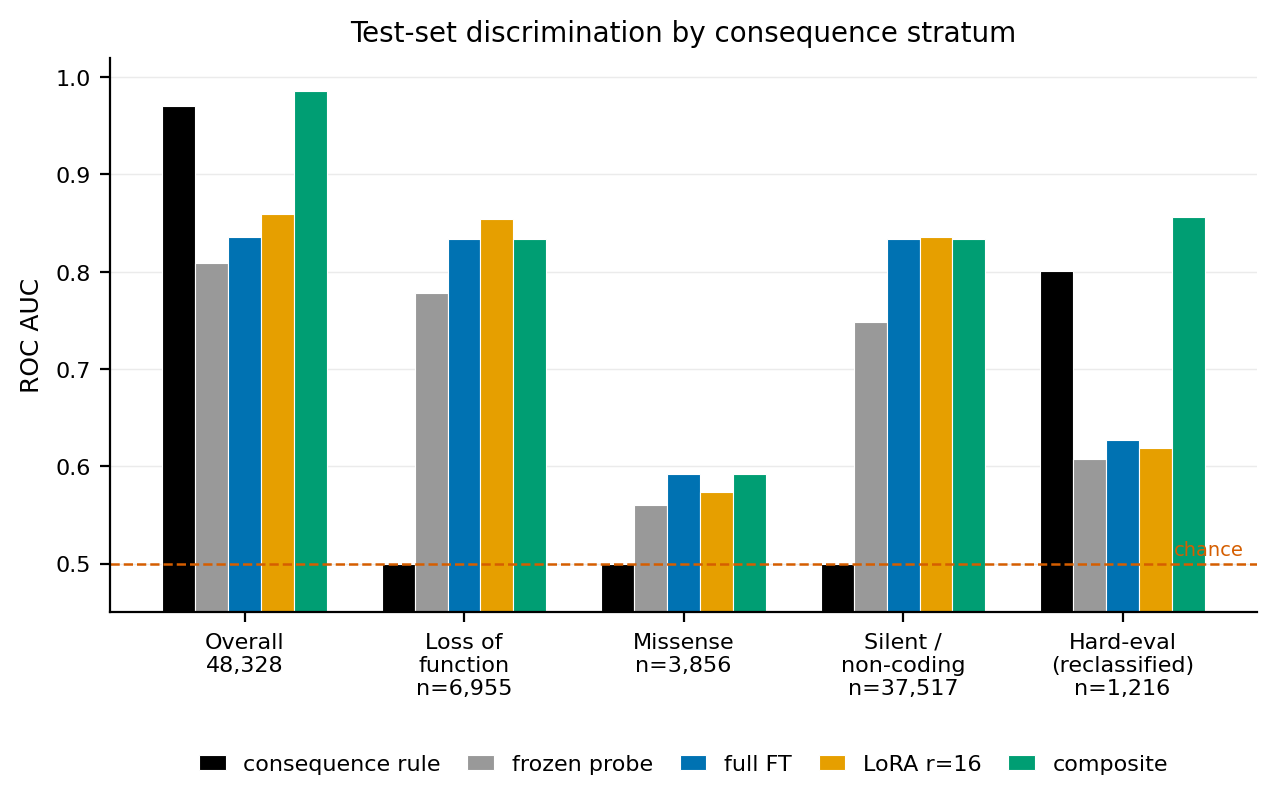
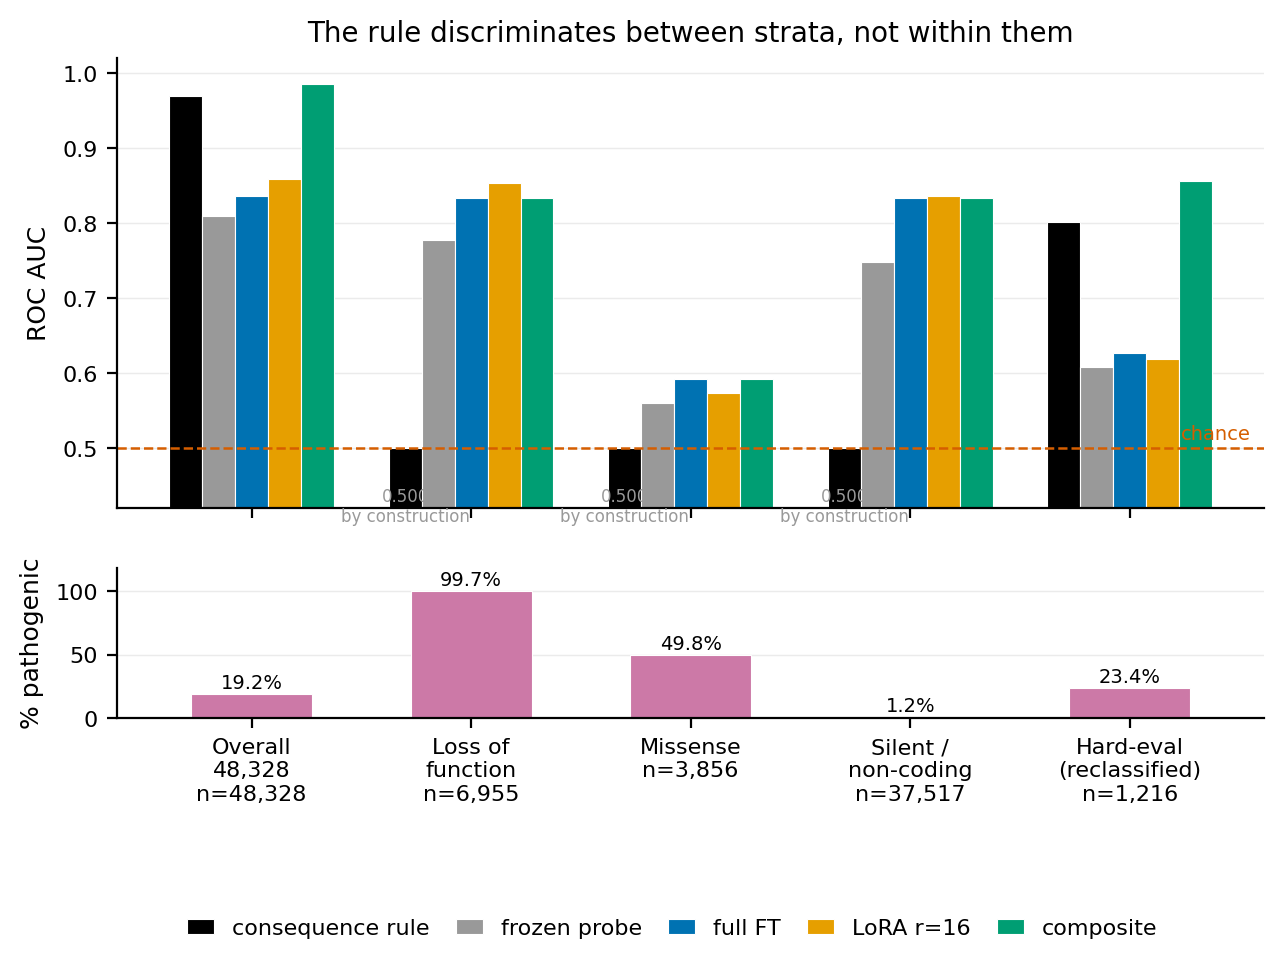
Updated figure 1

diff --git a/figures/make_figures.py b/figures/make_figures.py
@@ -446,29 +446,51 @@ STRAT_LABEL = {"overall": "Overall\n48,328", "LoF": "Loss of\nfunction",
 # --- F1: AUC by system and stratum ----------------------------------------
 def fig1():
     piv = MX.pivot(index="stratum", columns="system", values="auc").loc[STRATA]
-    n_by = MX.groupby("stratum", observed=True).n.first().loc[STRATA]
+    base = MX.groupby("stratum", observed=True)[["n", "pos"]].first().loc[STRATA]
+    prev = 100 * base.pos / base.n
 
-    fig, ax = plt.subplots(figsize=(7.4, 3.6))
+    fig, (ax, axp) = plt.subplots(
+        2, 1, sharex=True, figsize=(7.4, 5.0),
+        gridspec_kw={"height_ratios": [3, 1], "hspace": 0.20})
+
     x = np.arange(len(STRATA))
     w = 0.15
     for i, s in enumerate(SYSTEMS):
-        ax.bar(x + (i - 2) * w, piv[s].values, w, label=SYS_SHORT[s].replace("\n", " "),
+        ax.bar(x + (i - 2) * w, piv[s].values, w,
+               label=SYS_SHORT[s].replace("\n", " "),
                color=SYS_COLOR[s], edgecolor="white", linewidth=0.4)
 
     ax.axhline(0.5, color=CB["vermillion"], lw=0.9, ls="--", zorder=1)
     ax.annotate("chance", xy=(len(STRATA) - 0.45, 0.5), xytext=(0, 3),
-                textcoords="offset points", fontsize=7, color=CB["vermillion"],
-                ha="right")
+                textcoords="offset points", fontsize=7,
+                color=CB["vermillion"], ha="right")
+    for xi, s in zip(x, STRATA):
+        if s in ("LoF", "missense", "silent/non-coding"):
+            ax.annotate("0.500\nby construction", xy=(xi - 2 * w, 0.5),
+                        xytext=(0, -14), textcoords="offset points",
+                        fontsize=6, ha="center", va="top", color=CB["grey"])
 
-    ax.set_xticks(x)
-    ax.set_xticklabels([f"{STRAT_LABEL[s]}\nn={n_by[s]:,}"
-                        if s != "overall" else STRAT_LABEL[s] for s in STRATA])
-    ax.set_ylim(0.45, 1.02)
+    ax.set_ylim(0.42, 1.02)
     ax.set_ylabel("ROC AUC")
-    ax.set_title("Test-set discrimination by consequence stratum")
+    ax.set_title("The rule discriminates between strata, not within them")
     ax.grid(axis="y")
-    ax.legend(ncol=5, loc="upper center", bbox_to_anchor=(0.5, -0.22),
-              columnspacing=1.2, handlelength=1.2)
+
+    axp.bar(x, prev.values, 0.55, color=CB["purple"],
+            edgecolor="white", linewidth=0.4)
+    for xi, v in zip(x, prev.values):
+        axp.annotate(f"{v:.1f}%", xy=(xi, v), xytext=(0, 2),
+                     textcoords="offset points", fontsize=7, ha="center")
+    axp.set_ylim(0, 118)
+    axp.set_yticks([0, 50, 100])
+    axp.set_ylabel("% pathogenic")
+    axp.grid(axis="y")
+    axp.set_xticks(x)
+    axp.set_xticklabels([f"{STRAT_LABEL[s]}\nn={base.n[s]:,}" for s in STRATA])
+
+    handles, labels = ax.get_legend_handles_labels()
+    fig.legend(handles, labels, ncol=5, loc="lower center",
+               bbox_to_anchor=(0.5, -0.02), columnspacing=1.2, handlelength=1.2)
+    fig.subplots_adjust(bottom=0.22)
     save(fig, "fig1_auc_by_stratum")
 
 
